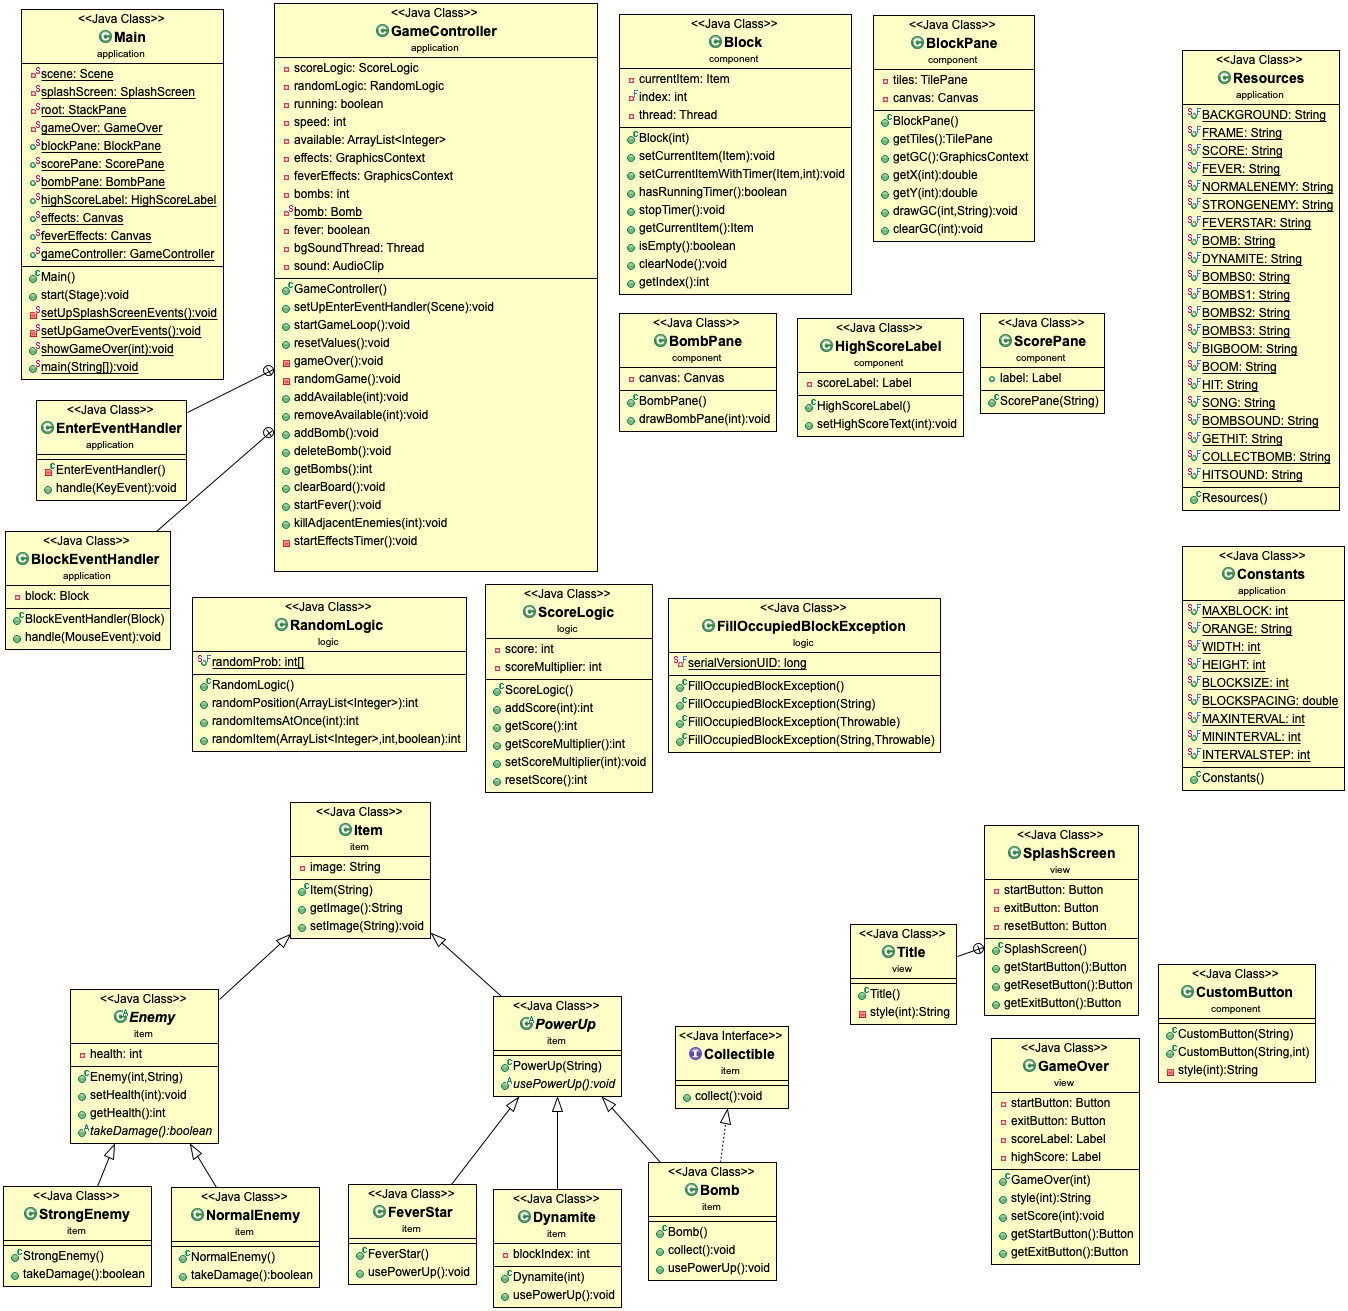
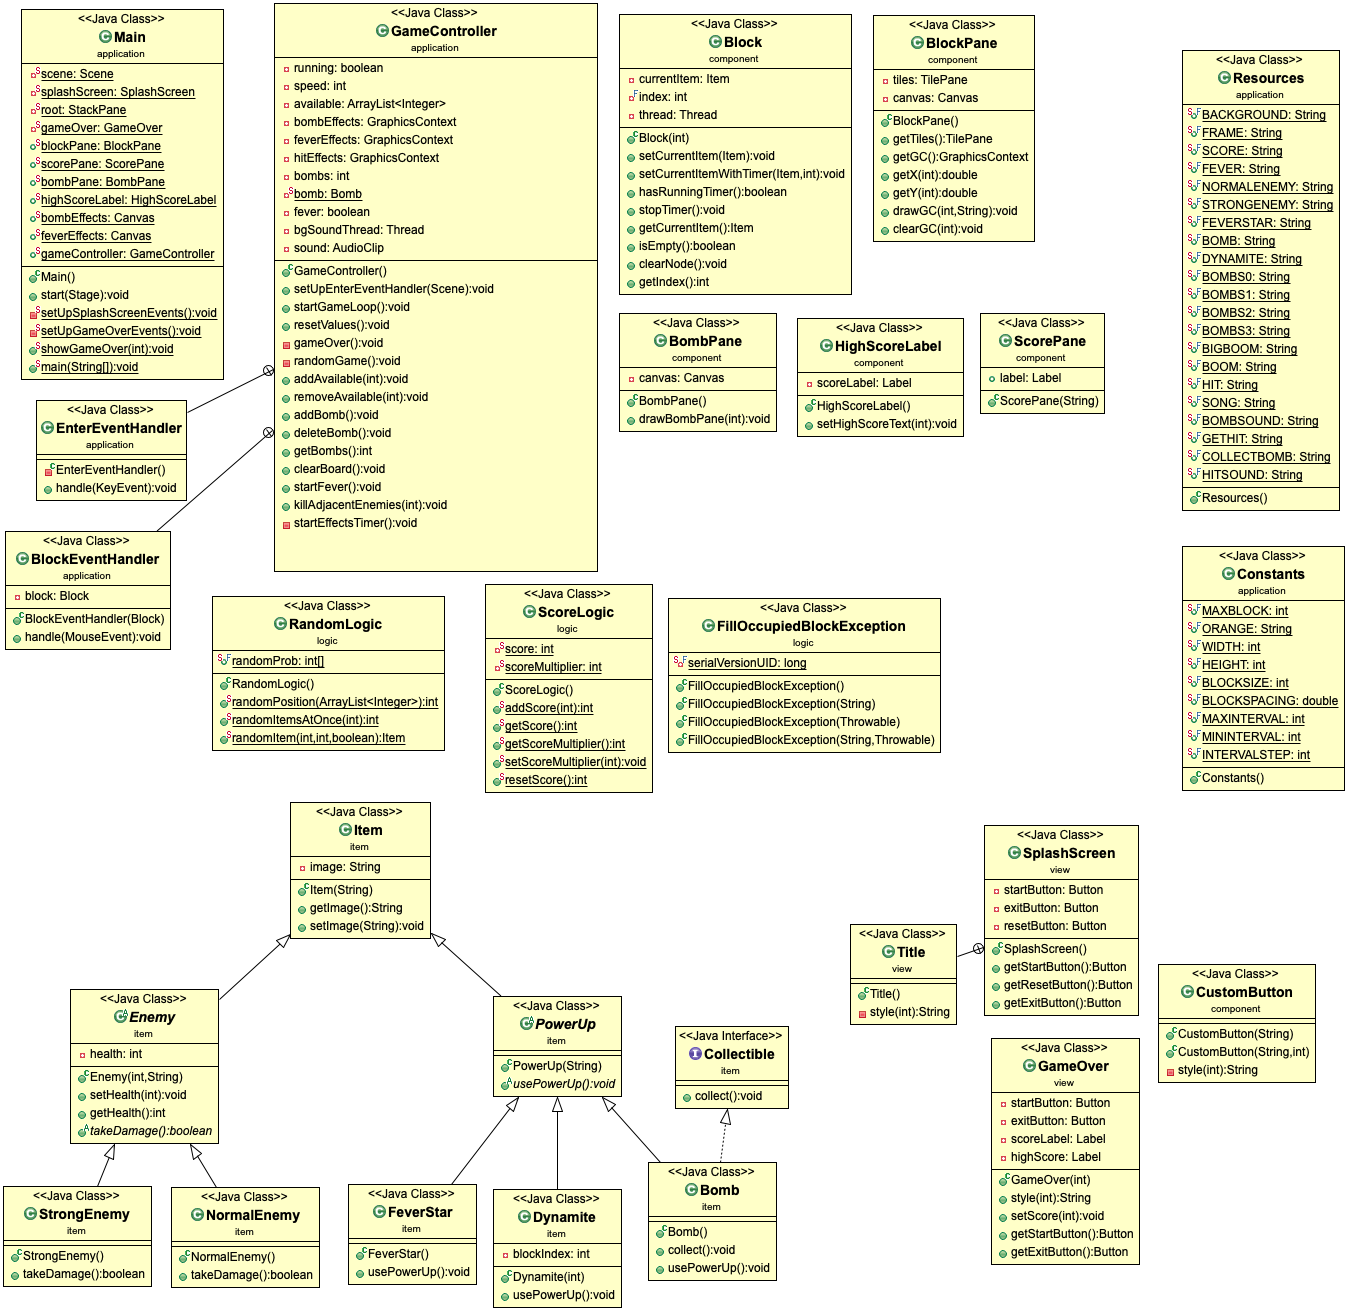
Refactor and style

Changed region(s): [[0.2181, 0.0305, 0.3739, 0.4272], [0.1246, 0.4577, 0.3739, 0.5797], [0.0312, 0.1526, 0.1246, 0.1831]]

diff --git a/src/application/GameController.java b/src/application/GameController.java
@@ -22,8 +22,6 @@ import logic.*;
 public class GameController {
 	
 	// Logic
-	private ScoreLogic scoreLogic;
-	private RandomLogic randomLogic;
 	private boolean running = false;
 	private int speed;
 	private ArrayList<Integer> available;
@@ -43,7 +41,6 @@ public class GameController {
 	private AudioClip sound = new AudioClip(Resources.SONG);
 	
 	public GameController() {
-		
 		this.bombEffects = Main.bombEffects.getGraphicsContext2D();
 		this.feverEffects = Main.feverEffects.getGraphicsContext2D();
 		this.hitEffects = Main.hitEffects.getGraphicsContext2D();
@@ -52,9 +49,7 @@ public class GameController {
 		this.bombs = 0;
 		this.fever = false;
 		
-		this.scoreLogic = new ScoreLogic();
-		this.randomLogic = new RandomLogic();
-		this.speed = Constants.MININTERVAL;
+		this.speed = Constants.MAXINTERVAL;
 		available = new ArrayList<Integer>();
 
 		// Add blocks to block pane
@@ -119,7 +114,7 @@ public class GameController {
 				// Take damage
 				Enemy e = (Enemy) item;
 				if (!e.takeDamage() || fever) {
-					Main.scorePane.label.setText(Integer.toString(scoreLogic.addScore(100)));
+					Main.scorePane.label.setText(Integer.toString(ScoreLogic.addScore(100)));
 					block.clearNode();
 					available.add(block.getIndex());
 					// Die sound
@@ -206,19 +201,17 @@ public class GameController {
 		});
 		t.start();
 		
+		// BGM
 		bgSoundThread = new Thread(() -> {
 				try {
 					while(true) {
 						sound.play();
 						Thread.sleep(480000);
-					
 					}
 				} catch (InterruptedException e){
 					sound.stop();
-					e.printStackTrace();
 				}
-			
-		} );
+		});
 		bgSoundThread.start();
 	}
 	
@@ -228,7 +221,7 @@ public class GameController {
 		this.bombEffects.clearRect(0, 0, Constants.WIDTH, Constants.HEIGHT);
 		this.feverEffects.clearRect(0, 0, Constants.WIDTH, Constants.HEIGHT);
 		this.speed = Constants.MAXINTERVAL;
-		Main.scorePane.label.setText(Integer.toString(this.scoreLogic.resetScore()));
+		Main.scorePane.label.setText(Integer.toString(ScoreLogic.resetScore()));
 		this.fever = false;
 		this.bombs = 0;
 		Main.bombPane.drawBombPane(0);
@@ -239,9 +232,9 @@ public class GameController {
 		this.running = false;
 		this.fever = false;
 		bgSoundThread.interrupt();
-		Main.showGameOver(scoreLogic.getScore());
+		Main.showGameOver(ScoreLogic.getScore());
 		try {
-			HighScoreLogic.writeHighScore(scoreLogic.getScore());
+			HighScoreLogic.writeHighScore(ScoreLogic.getScore());
 		} catch (IOException e) {
 			e.printStackTrace();
 		}
@@ -254,17 +247,17 @@ public class GameController {
 			return;
 		}
 		
-		int itemsAtOnce = randomLogic.randomItemsAtOnce(this.speed);
+		int itemsAtOnce = RandomLogic.randomItemsAtOnce(this.speed);
 		if (itemsAtOnce > available.size()) {
 			itemsAtOnce = available.size();
 		}
 		
 		for (int i = 0; i < itemsAtOnce; i++) {
-			int position = randomLogic.randomPosition(available);
+			int position = RandomLogic.randomPosition(available);
 			Block block = (Block) Main.blockPane.getTiles().getChildren().get(available.get(position));
 			available.remove(position);
 			
-			Item item = randomLogic.randomItem(this.speed, block.getIndex(), this.fever);
+			Item item = RandomLogic.randomItem(this.speed, block.getIndex(), this.fever);
 			try {
 				if (item instanceof Bomb || item instanceof FeverStar) {
 					block.setCurrentItemWithTimer(item, 3000);
@@ -308,16 +301,16 @@ public class GameController {
 			Block block = (Block) node;
 			if (!block.isEmpty()) {
 				if (block.getCurrentItem() instanceof Enemy) {
-					this.scoreLogic.addScore(100);
+					ScoreLogic.addScore(100);
 				}
 				block.clearNode();
 				available.add(block.getIndex());
 			}
 		}
-		Main.scorePane.label.setText(Integer.toString(this.scoreLogic.getScore()));
+		Main.scorePane.label.setText(Integer.toString(ScoreLogic.getScore()));
 	}
 	public void startFever() {
-		this.scoreLogic.setScoreMultiplier(3);
+		ScoreLogic.setScoreMultiplier(3);
 		this.fever = true;
 		this.feverEffects.drawImage(new Image(Resources.FEVER), 0, 0, Constants.WIDTH, Constants.HEIGHT);
 		
@@ -327,7 +320,7 @@ public class GameController {
 		Thread t = new Thread(() -> {
 			try {
 				Thread.sleep(10000);
-				this.scoreLogic.setScoreMultiplier(1);
+				ScoreLogic.setScoreMultiplier(1);
 				this.fever = false;
 				this.feverEffects.clearRect(0, 0, Constants.WIDTH, Constants.HEIGHT);
 			} catch (Exception e) {
@@ -356,7 +349,7 @@ public class GameController {
 				if (!block.isEmpty()) {
 					block.clearNode();
 					if (block.getCurrentItem() instanceof Enemy) {
-						this.scoreLogic.addScore(100);
+						ScoreLogic.addScore(100);
 					} else {
 						if (block.hasRunningTimer()) {
 							block.stopTimer();

diff --git a/src/logic/ScoreLogic.java b/src/logic/ScoreLogic.java
@@ -1,28 +1,24 @@
 package logic;
 
 public class ScoreLogic {
-	private int score;
-	private int scoreMultiplier;
+	private static int score;
+	private static int scoreMultiplier = 1;
 	
-	public ScoreLogic() {
-		scoreMultiplier = 1;
+	public static int addScore(int added) {
+		score += added * scoreMultiplier;
+		return score;
 	}
-	
-	public int addScore(int score) {
-		this.score += score * scoreMultiplier;
-		return this.score;
+	public static int getScore() {
+		return score;
 	}
-	public int getScore() {
-		return this.score;
-	}
-	public int getScoreMultiplier() {
+	public static int getScoreMultiplier() {
 		return scoreMultiplier;
 	}
-	public void setScoreMultiplier(int multiplier) {
+	public static void setScoreMultiplier(int multiplier) {
 		scoreMultiplier = multiplier;
 	}
-	public int resetScore() {
-		this.score = 0;
-		return this.score;
+	public static int resetScore() {
+		score = 0;
+		return score;
 	}
 }

diff --git a/src/logic/RandomLogic.java b/src/logic/RandomLogic.java
@@ -9,11 +9,11 @@ public class RandomLogic {
 	
 	public static final int[] randomProb = {0,1,2,3,4,5,6,7,8};
 	
-	public int randomPosition(ArrayList<Integer> available) {
+	public static int randomPosition(ArrayList<Integer> available) {
 		return new Random().nextInt(available.size());
 	}
 	
-	public int randomItemsAtOnce(int speed) {
+	public static int randomItemsAtOnce(int speed) {
 		int itemsAtOnce = 1;
 		int random = randomProb[new Random().nextInt(randomProb.length)];
 		
@@ -35,7 +35,7 @@ public class RandomLogic {
 		return itemsAtOnce;
 	}
 	
-	public Item randomItem(int speed, int position, boolean fever) {
+	public static Item randomItem(int speed, int position, boolean fever) {
 		int random = randomProb[new Random().nextInt(randomProb.length)];
 		if (speed >= Constants.MAXINTERVAL - Constants.INTERVALSTEP*2) {
 			return new NormalEnemy();

diff --git a/src/component/BlockPane.java b/src/component/BlockPane.java
@@ -24,7 +24,6 @@ public class BlockPane extends StackPane {
 		tiles.setPadding(new Insets(100,0,0,53));
 		
 		canvas = new Canvas(Constants.BLOCKSIZE*3 + Constants.BLOCKSPACING*2, Constants.BLOCKSIZE*4 + Constants.BLOCKSPACING*3);
-		canvas.setStyle("-fx-background-color: red");
 		getChildren().addAll(canvas, tiles);
 	}
 	
@@ -44,7 +43,6 @@ public class BlockPane extends StackPane {
 	}
 	
 	public void drawGC(int index, String imagePath) {
-		
 		Image img = new Image(imagePath);
 		this.getGC().drawImage(img, getX(index), getY(index), Constants.BLOCKSIZE, Constants.BLOCKSIZE);
 	}

diff --git a/src/component/BombPane.java b/src/component/BombPane.java
@@ -43,6 +43,4 @@ public class BombPane extends StackPane {
 		this.canvas.getGraphicsContext2D().clearRect(0, 0, img.getWidth()/2, img.getHeight()/2); 
 		this.canvas.getGraphicsContext2D().drawImage(img, 0, 0, img.getWidth()/2, img.getHeight()/2);
 	}
-	
-	
 }

diff --git a/src/application/Constants.java b/src/application/Constants.java
@@ -15,6 +15,6 @@ public class Constants {
 	
 	// Speed
 	public final static int MAXINTERVAL = 1000;
-	public final static int MININTERVAL = 600;
+	public final static int MININTERVAL = 500;
 	public final static int INTERVALSTEP = 100;
 }

diff --git a/src/logic/HighScoreLogic.java b/src/logic/HighScoreLogic.java
@@ -7,6 +7,7 @@ import java.nio.file.Paths;
 import java.util.List;
 
 public class HighScoreLogic {
+	
 	private static Path path = Paths.get("highscore.txt");
 	private static int highscore;
 	
